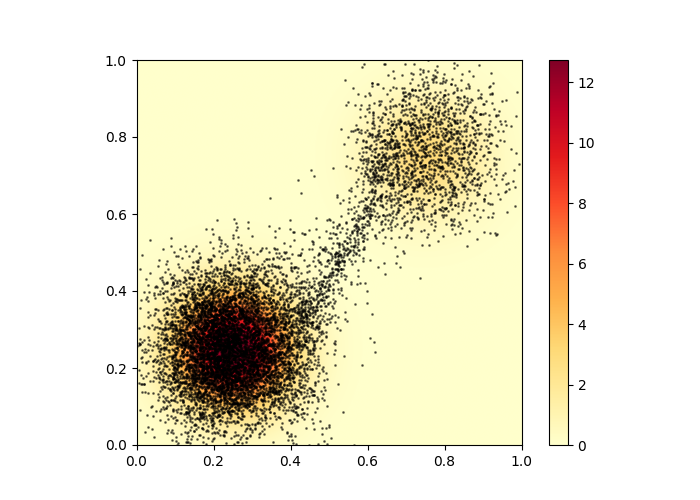
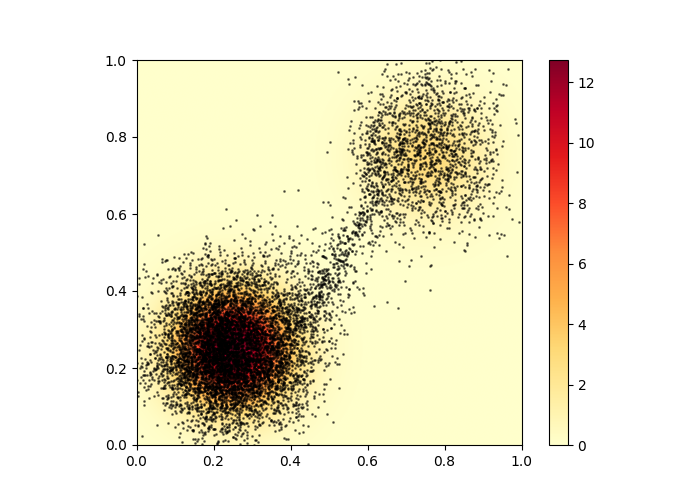
adds week3 progress

Changed region(s): [[0.18, 0.12, 0.75, 0.9]]

diff --git a/Week3/ddpm.py b/Week3/ddpm.py
@@ -46,7 +46,13 @@ class DDPM(nn.Module):
         """
 
         ### Implement Algorithm 1 here ###
-        neg_elbo = 0
+        batch_size = x.shape[0]
+        t = torch.randint(0, self.T, (batch_size,), device=x.device)
+        t_norm = t.float().view(-1, 1) / max(self.T - 1, 1)
+        noise = torch.randn_like(x)
+        x_t = self.alpha_cumprod[t].sqrt().view(-1, 1) * x + (1 - self.alpha_cumprod[t]).sqrt().view(-1, 1) * noise
+        pred_noise = self.network(x_t, t_norm)
+        neg_elbo = F.mse_loss(pred_noise, noise)
 
         return neg_elbo
 
@@ -67,7 +73,11 @@ class DDPM(nn.Module):
         # Sample x_t given x_{t+1} until x_0 is sampled
         for t in range(self.T-1, -1, -1):
             ### Implement the remaining of Algorithm 2 here ###
-            pass
+            t_tensor = torch.full((shape[0], 1), float(t), device=self.alpha.device)
+            t_norm = t_tensor / max(self.T - 1, 1)
+            pred_noise = self.network(x_t, t_norm)
+            x_t = (x_t - self.beta[t] * pred_noise / (1 - self.alpha_cumprod[t]).sqrt()) / self.alpha[t].sqrt()
+            x_t += torch.randn_like(x_t) * (self.beta[t] / self.alpha[t]).sqrt() if t > 0 else 0
 
         return x_t
 
@@ -123,7 +133,7 @@ def train(model, optimizer, data_loader, epochs, device):
 
 
 class FcNetwork(nn.Module):
-    def __init__(self, input_dim, num_hidden):
+    def __init__(self, input_dim, num_hidden, T):
         """
         Initialize a fully connected network for the DDPM, where the forward function also take time as an argument.
         
@@ -134,6 +144,7 @@ class FcNetwork(nn.Module):
             The number of hidden units in the network.
         """
         super(FcNetwork, self).__init__()
+        self.T = T
         self.network = nn.Sequential(nn.Linear(input_dim+1, num_hidden), nn.ReLU(), 
                                      nn.Linear(num_hidden, num_hidden), nn.ReLU(), 
                                      nn.Linear(num_hidden, input_dim))
@@ -153,44 +164,98 @@ class FcNetwork(nn.Module):
 
 
 if __name__ == "__main__":
+    import os
+    import sys
     import torch.utils.data
     from torchvision import datasets, transforms
     from torchvision.utils import save_image
-    import ToyData
+
+    # Allow running as: python Week3/ddpm.py ...
+    # by adding the repository root to sys.path.
+    project_root = os.path.dirname(os.path.dirname(os.path.abspath(__file__)))
+    if project_root not in sys.path:
+        sys.path.insert(0, project_root)
+
+    import Week2.ToyData as ToyData
 
     # Parse arguments
     import argparse
     parser = argparse.ArgumentParser()
     parser.add_argument('mode', type=str, default='train', choices=['train', 'sample', 'test'], help='what to do when running the script (default: %(default)s)')
     parser.add_argument('--data', type=str, default='tg', choices=['tg', 'cb', 'mnist'], help='dataset to use {tg: two Gaussians, cb: chequerboard} (default: %(default)s)')
-    parser.add_argument('--model', type=str, default='model.pt', help='file to save model to or load model from (default: %(default)s)')
-    parser.add_argument('--samples', type=str, default='samples.png', help='file to save samples in (default: %(default)s)')
+    parser.add_argument('--model', type=str, default='outputs/models/ddpm_model.pt', help='file to save model to or load model from (default: %(default)s)')
+    parser.add_argument('--samples', type=str, default='outputs/images/ddpm_samples.png', help='file to save samples in (default: %(default)s)')
     parser.add_argument('--device', type=str, default='cpu', choices=['cpu', 'cuda', 'mps'], help='torch device (default: %(default)s)')
-    parser.add_argument('--batch-size', type=int, default=10000, metavar='N', help='batch size for training (default: %(default)s)')
+    parser.add_argument('--batch-size', type=int, default=64, metavar='N', help='batch size for training (default: %(default)s)')
     parser.add_argument('--epochs', type=int, default=1, metavar='N', help='number of epochs to train (default: %(default)s)')
     parser.add_argument('--lr', type=float, default=1e-3, metavar='V', help='learning rate for training (default: %(default)s)')
+    parser.add_argument('--arch', type=str, default='fc', choices=['fc', 'unet'], help='network architecture to use (default: %(default)s)')
 
     args = parser.parse_args()
+
+    def add_suffix(path, data_name, arch_name):
+        root, ext = os.path.splitext(path)
+        suffix = f"_{data_name}_{arch_name}"
+        if root.endswith(suffix):
+            return path
+        return f"{root}{suffix}{ext}"
+
+    args.model = add_suffix(args.model, args.data, args.arch)
+    args.samples = add_suffix(args.samples, args.data, args.arch)
+
     print('# Options')
     for key, value in sorted(vars(args).items()):
         print(key, '=', value)
 
-    # Generate the data
-    n_data = 10000000
-    toy = {'tg': ToyData.TwoGaussians, 'cb': ToyData.Chequerboard}[args.data]()
-    transform = lambda x: (x-0.5)*2.0
-    train_loader = torch.utils.data.DataLoader(transform(toy().sample((n_data,))), batch_size=args.batch_size, shuffle=True)
-    test_loader = torch.utils.data.DataLoader(transform(toy().sample((n_data,))), batch_size=args.batch_size, shuffle=True)
+    # Generate/load the data
+    is_mnist = (args.data == 'mnist')
+    toy = None
 
-    # Get the dimension of the dataset
-    D = next(iter(train_loader)).shape[1]
+    if is_mnist:
+        transform = transforms.Compose([
+            transforms.ToTensor(),
+            transforms.Lambda(lambda x: x + torch.rand(x.shape) / 255),
+            transforms.Lambda(lambda x: (x - 0.5) * 2.0),
+            transforms.Lambda(lambda x: x.flatten()),
+        ])
+
+        train_data = datasets.MNIST(
+            'data/',
+            train=True,
+            download=True,
+            transform=transform,
+        )
+        test_data = datasets.MNIST(
+            'data/',
+            train=False,
+            download=True,
+            transform=transform,
+        )
+
+        train_loader = torch.utils.data.DataLoader(train_data, batch_size=args.batch_size, shuffle=True)
+        test_loader = torch.utils.data.DataLoader(test_data, batch_size=args.batch_size, shuffle=False)
+        D = 28 * 28
+    else:
+        n_data = 10000000
+        toy = {'tg': ToyData.TwoGaussians, 'cb': ToyData.Chequerboard}[args.data]()
+        transform = lambda x: (x - 0.5) * 2.0
+        train_loader = torch.utils.data.DataLoader(transform(toy().sample((n_data,))), batch_size=args.batch_size, shuffle=True)
+        test_loader = torch.utils.data.DataLoader(transform(toy().sample((n_data,))), batch_size=args.batch_size, shuffle=True)
+        D = next(iter(train_loader)).shape[1]
 
     # Define the network
-    num_hidden = 64
-    network = FcNetwork(D, num_hidden)
+    num_hidden = 128
 
     # Set the number of steps in the diffusion process
     T = 1000
+
+    if args.arch == 'unet':
+        if not is_mnist:
+            raise ValueError("U-Net architecture is only supported with --data mnist")
+        from Week3.unet import Unet
+        network = Unet()
+    else:
+        network = FcNetwork(D, num_hidden, T=T)
 
     # Define model
     model = DDPM(network, T=T).to(args.device)
@@ -204,6 +269,7 @@ if __name__ == "__main__":
         train(model, optimizer, train_loader, args.epochs, args.device)
 
         # Save model
+        os.makedirs(os.path.dirname(args.model), exist_ok=True)
         torch.save(model.state_dict(), args.model)
 
     elif args.mode == 'sample':
@@ -216,21 +282,42 @@ if __name__ == "__main__":
         # Generate samples
         model.eval()
         with torch.no_grad():
-            samples = (model.sample((10000,D))).cpu() 
+            n_samples = 64 if is_mnist else 10000
+            samples = (model.sample((n_samples, D))).cpu()
 
         # Transform the samples back to the original space
         samples = samples /2 + 0.5
 
-        # Plot the density of the toy data and the model samples
-        coordinates = [[[x,y] for x in np.linspace(*toy.xlim, 1000)] for y in np.linspace(*toy.ylim, 1000)]
-        prob = torch.exp(toy().log_prob(torch.tensor(coordinates)))
+        os.makedirs(os.path.dirname(args.samples), exist_ok=True)
 
-        fig, ax = plt.subplots(1, 1, figsize=(7, 5))
-        im = ax.imshow(prob, extent=[toy.xlim[0], toy.xlim[1], toy.ylim[0], toy.ylim[1]], origin='lower', cmap='YlOrRd')
-        ax.scatter(samples[:, 0], samples[:, 1], s=1, c='black', alpha=0.5)
-        ax.set_xlim(toy.xlim)
-        ax.set_ylim(toy.ylim)
-        ax.set_aspect('equal')
-        fig.colorbar(im)
-        plt.savefig(args.samples)
-        plt.close()
+        if is_mnist:
+            samples = samples.clamp(0.0, 1.0).reshape(-1, 1, 28, 28)
+            save_image(samples, args.samples, nrow=8)
+        else:
+            # Plot the density of the toy data and the model samples
+            coordinates = [[[x,y] for x in np.linspace(*toy.xlim, 1000)] for y in np.linspace(*toy.ylim, 1000)]
+            prob = torch.exp(toy().log_prob(torch.tensor(coordinates)))
+
+            fig, ax = plt.subplots(1, 1, figsize=(7, 5))
+            im = ax.imshow(prob, extent=[toy.xlim[0], toy.xlim[1], toy.ylim[0], toy.ylim[1]], origin='lower', cmap='YlOrRd')
+            ax.scatter(samples[:, 0], samples[:, 1], s=1, c='black', alpha=0.5)
+            ax.set_xlim(toy.xlim)
+            ax.set_ylim(toy.ylim)
+            ax.set_aspect('equal')
+            fig.colorbar(im)
+            plt.savefig(args.samples)
+            plt.close()
+
+    elif args.mode == 'test':
+        # Load the model
+        model.load_state_dict(torch.load(args.model, map_location=torch.device(args.device)))
+        model.eval()
+
+        with torch.no_grad():
+            losses = []
+            for x in test_loader:
+                if isinstance(x, (list, tuple)):
+                    x = x[0]
+                x = x.to(args.device)
+                losses.append(model.loss(x).item())
+        print(f"test_loss = {sum(losses)/len(losses):.6f}")

diff --git a/Week2/flow.py b/Week2/flow.py
@@ -235,7 +235,7 @@ if __name__ == "__main__":
     parser.add_argument('--model', type=str, default='outputs/models/model.pt', help='file to save model to or load model from (default: %(default)s)')
     parser.add_argument('--samples', type=str, default='outputs/images/samples.png', help='file to save samples in (default: %(default)s)')
     parser.add_argument('--device', type=str, default='cpu', choices=['cpu', 'cuda', 'mps'], help='torch device (default: %(default)s)')
-    parser.add_argument('--batch-size', type=int, default=10000, metavar='N', help='batch size for training (default: %(default)s)')
+    parser.add_argument('--batch-size', type=int, default=64, metavar='N', help='batch size for training (default: %(default)s)')
     parser.add_argument('--epochs', type=int, default=1, metavar='N', help='number of epochs to train (default: %(default)s)')
     parser.add_argument('--lr', type=float, default=1e-3, metavar='V', help='learning rate for training (default: %(default)s)')
     parser.add_argument('--mask', type=str, default='half', choices=['half', 'random', 'chequerboard'], help='masking strategy for coupling layers (default: %(default)s)')
